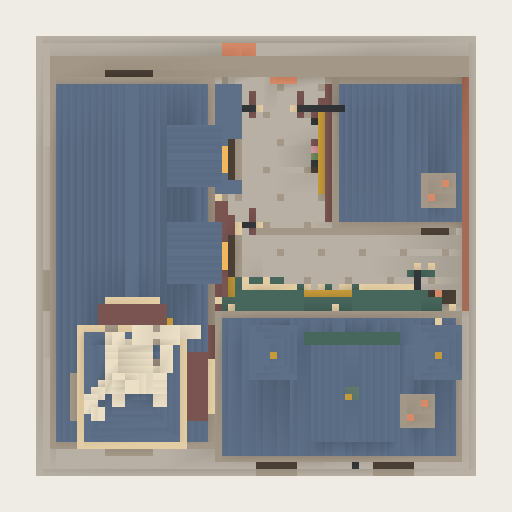
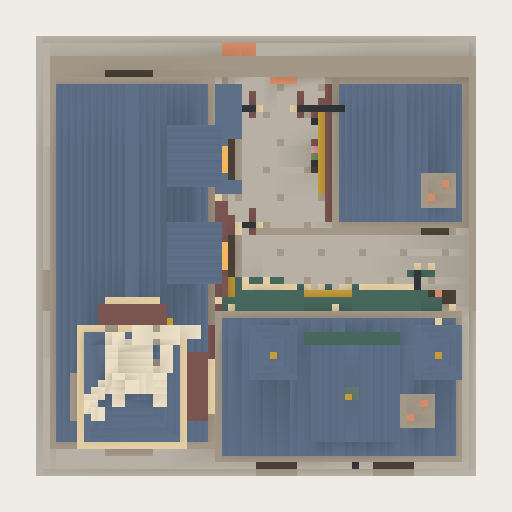
fix: separate alley boundary wall from house cornice and match brickwork

Changed region(s): [[0.875, 0.125, 0.9375, 0.625]]

diff --git a/src/generators/diagonAlley.js b/src/generators/diagonAlley.js
@@ -18,7 +18,7 @@ export function diagonAlleySpec() {
       shop("wine-dormer-middle",-9,0,8,9,5,"shopWine",6,32,"east_west"),
       {...shop("landmark-tower",-18,-19,14,16,28,"shopWine",18,29),
         cap:{type:"spire",heightVoxels:18}} ]});
-  return {...spec,assetId:DIAGON_ASSET_ID,assetRevision:8,footprint:{...spec.footprint,worldWidth:8,worldDepth:8}};
+  return {...spec,assetId:DIAGON_ASSET_ID,assetRevision:9,footprint:{...spec.footprint,worldWidth:8,worldDepth:8}};
 }
 
 export function addDiagonDetails(buffer) {
@@ -34,7 +34,13 @@ export function addDiagonDetails(buffer) {
   // Continuous L-shaped paving strip, rather than a central open courtyard.
   box("stoneShadow",-5,0,-3,1,1,29);box("stoneShadow",10,0,5,1,1,21);
   box("stoneShadow",0,0,3,29,1,1);
-  box("brickBrown",30,1,-8,1,17,34); // closes side shortcuts around the shops
+  // Reserve x=30 for the unchanged house cornice; the boundary wall has
+  // its own voxel column at x=31, still inside the 2x2 parcel.
+  box("pavement",31,0,-8,1,1,37);
+  box("brickBrown",31,1,-8,1,18,37);
+  box("stoneShadow",31,19,-8,1,1,37);
+  for(let y=2;y<18;y+=3) for(let z=-7+(y%2)*3;z<25;z+=7)
+    box("brickRed",31,y,z,1,1,Math.min(4,26-z));
   // Facade coordinates: horizontal u, vertical y, outward depth d.
   function facade(x,z,face) {
     return (m,u,y,d,w,h,t=1)=> {
@@ -235,7 +241,7 @@ export function addDiagonDetails(buffer) {
 export function createDiagonAlley({cellWorldSize=4,nightLighting=0}={}) {
   const root=createVoxelMassingLab({spec:diagonAlleySpec(),renderStrategy:"greedy",nightLighting,voxelDetailPass:addDiagonDetails});
   root.name="DiagonAlley";root.scale.setScalar(cellWorldSize/4);
-  root.userData={...root.userData,assetId:DIAGON_ASSET_ID,assetRevision:8,representation:"special-landmark-voxel",
+  root.userData={...root.userData,assetId:DIAGON_ASSET_ID,assetRevision:9,representation:"special-landmark-voxel",
     sphereProjectionRoot:true,footprint:"2x2",entrance:"north",authoredParcelSize:8,voxelSize:.125};
   return root;
 }

diff --git a/test/diagonAlley.test.js b/test/diagonAlley.test.js
@@ -45,6 +45,10 @@ test("partly opening brick wall retains a narrow slit and a clear L-shaped inter
     assert.equal(buffer.getMaterialAt(-15,22,24),"shopWine");
     assert.equal(buffer.getMaterialAt(12,25,-10),"shopGreen");
     assert.equal(buffer.getMaterialAt(-9,67,-11),"limestone","muzzle turns outward across the roof");
+    assert.equal(buffer.getMaterialAt(30,16,10),"stoneShadow","house cornice retains its own column");
+    assert.equal(buffer.getMaterialAt(31,16,10),"brickBrown","side wall does not share the cornice column");
+    assert.equal(buffer.getMaterialAt(31,2,-7),"brickRed","side wall repeats front brick accents");
+    assert.equal(buffer.getMaterialAt(31,19,10),"stoneShadow","side wall has a continuous coping");
     for(const x of [-28,-8]) assert.equal(buffer.getMaterialAt(x,84,-19),null,"wings no longer spread high above the roof");
     for(let z=17;z<=20;z++) assert.equal(buffer.getMaterialAt(-4,8,z),"warmWindow","shop glazing continues toward the entrance");
   }});disposeBuildingObject(model);

diff --git a/docs/visual-development/diagon-alley-001/README.md b/docs/visual-development/diagon-alley-001/README.md
@@ -1,4 +1,4 @@
-# 斜角巷 · 2×2 体素商业街（第八版）
+# 斜角巷 · 2×2 体素商业街（第九版）
 
 两层魔杖店、带高阁楼的书店、低矮药剂店夹出一条 L 形内部巷道，魔杖店后部增加独立高塔体量，形成地标。入口朝 +Z，地块为 8×8 世界单位。临街砖墙定格在正在打开的状态：不规则窄缝、前后错动砖端，保留隐蔽感，不含动画。巷道先向里再右转，保持第二版收窄后的布局。
 
@@ -11,6 +11,8 @@
 第七版将腹部沿屋顶高度场贴伏，四爪扣住坡面，头颈侧转朝向巷子，双翼沿背部纵向收拢。酒红店铺内侧增加临近入口的橱窗、门和吊牌，外侧隐蔽砖墙不变。81 项相关测试与生产构建通过。
 
 第八版将龙尾卷向天空，保留贴伏姿态；入口店铺二楼新增成对窄窗、墨绿窗板、浅挑板岩雨棚与两只花箱，和邻铺浅砂色凸窗形成区别。重跑 3 项资产测试与生产构建通过。
+
+第九版将侧围墙放在独立的 x=31 体素列，避开房屋 x=30 檐口；砖色、错缝节奏和顶部压边与正面一致。房屋和随机种子保持不变，背面已有木质服务门予以保留。新增围墙/檐口分离与砖纹断言，3 项资产测试和构建通过。
 
 ![正面](front.png)
 
@@ -25,7 +27,7 @@
 - 整栋酒红、墨绿墙面，旧红砖入口，共用蓝灰板岩屋顶和暖琥珀窗光；浅砂色仅作窄饰边，不作大面积墙底。
 - 新增 `shopGreen`、`shopWine` 哑光漆木材质，用于底层店面和吊牌；使用既有 painted 表面着色，非金属、非自发光。
 - `src/generators/diagonAlley.js` 是固定资产源，复用 UrbanMassingSpec、VoxelInstanceBuffer 与 greedy meshing；所有面位于 0.125 体素网格。
-- 9674 三角形；已有/新建 2×2 斜角巷、放置预览、CPU 可视化共用工厂。非 2×2 历史记录保留旧路径。
+- 10026 三角形；已有/新建 2×2 斜角巷、放置预览、CPU 可视化共用工厂。非 2×2 历史记录保留旧路径。
 - 不改变卡牌遮蔽效果、成本或其他玩法。巷道为资产内部视觉空间，不写入城市道路网络。
 - CPU 预览采用简化日光，不完整代表游戏内 AO、动态阴影和夜间发光。
 
